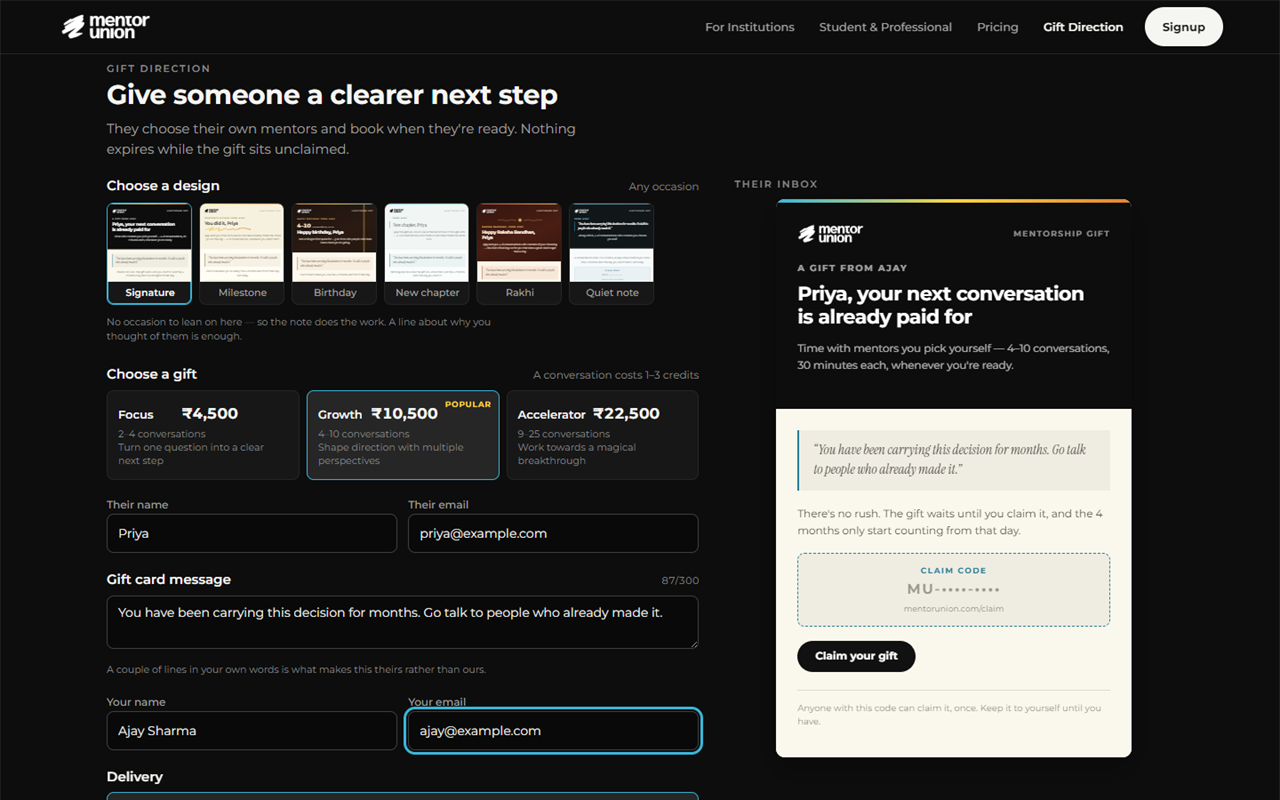
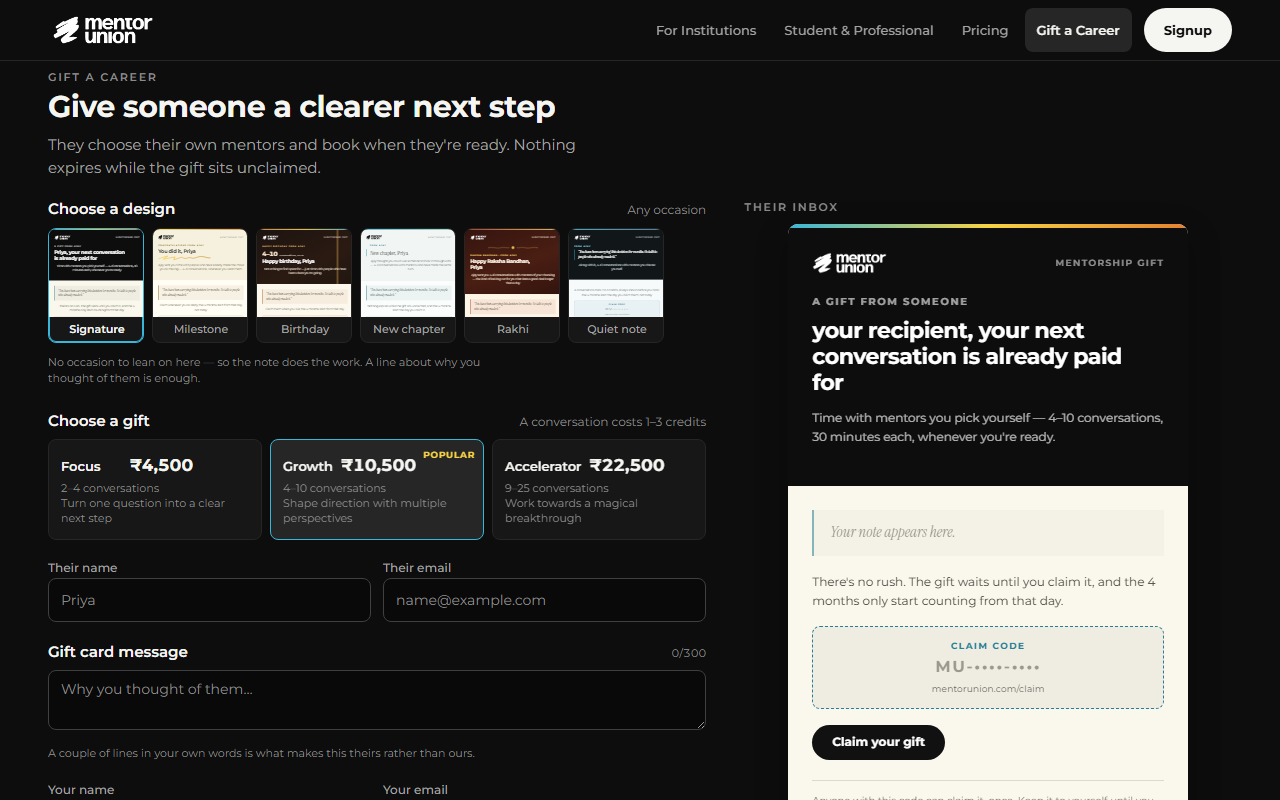
Rename Gift Direction to Gift a Career and stand in the landing page
The landing route now carries a single diagonal note pointing at the nav
CTA, so reviewers start the prototype where the work actually is. The
marketing hero, value cards and their styles are removed.

Also renames the vendored lockup to mentor-union-logo.png, which is what
it has always been — it was published under the black-bg-logo.png name.

diff --git a/prototypes/gift-mentorship/app.js b/prototypes/gift-mentorship/app.js
@@ -1,4 +1,4 @@
-/* Gift Direction — MentorUnion
+/* Gift a Career — MentorUnion
    Landing → one unified gifting page → guided design editor → provider
    checkout → confirmation, plus the recipient's Claim a Gift journey. There is
    no visible step tracker: the page hierarchy and a single continuation action
@@ -174,9 +174,13 @@
      slips before anything is looked up. */
   const CODE_ALPHABET = "23456789ABCDEFGHJKMNPQRSTVWXYZ";
 
+  /* One source for the CTA label, so the nav and the landing stand-in can never
+     drift apart — the stand-in tells people to click it by name. */
+  const GIFT_CTA = "Gift a Career";
+
   const ROUTES = ["", "gift", "personalise", "checkout", "gift/confirmed", "claim"];
   const ROUTE_TITLES = {
-    "": "Gift Direction",
+    "": GIFT_CTA,
     "gift": "Create your gift",
     "personalise": "Personalise the design",
     "checkout": "Checkout",
@@ -188,7 +192,7 @@
      The supplied dark-variant board is used on light heroes, where its white
      ground is multiplied away. Which one is used follows the measured luminance
      of the hero, so a recoloured card never renders an illegible lockup. */
-  const LOGO_LIGHT = "assets/logos/black-bg-logo.png";
+  const LOGO_LIGHT = "assets/logos/mentor-union-logo.png";
   const LOGO_DARK = "assets/logos/white-bg-logo.png";
 
   const CLAIM_URL = "mentorunion.com/claim";
@@ -630,68 +634,17 @@
 
   /* ------------------------------------------------------------ landing -- */
 
+  /* The marketing site is out of scope. This route stands in for it so the nav has
+     somewhere to sit and the prototype has an obvious starting point. */
   function renderLanding() {
     return `
-      <div class="container container--wide">
-        <section class="landing-hero">
-          <div class="landing-hero__copy">
-            <p class="eyebrow">MENTORUNION</p>
-            <h1 class="display" tabindex="-1">Careers move faster with someone who's been there.</h1>
-            <p class="lead">Book 30-minute conversations with practitioners who have already made the
-              move you're making. Pick your own mentor, in your own time.</p>
-            <div class="landing-hero__actions">
-              <a class="button button--primary" href="#/" data-inert-nav>Find a mentor</a>
-              <a class="button button--secondary" href="#/" data-inert-nav>See pricing</a>
-            </div>
-            <div class="landing-stats">
-              <div><strong>30 min</strong><span>per conversation</span></div>
-              <div><strong>1–3 credits</strong><span>per conversation</span></div>
-              <div><strong>No subscription</strong><span>nothing auto-renews</span></div>
-            </div>
-          </div>
-          <div class="hero-art" aria-hidden="true">
-            <svg viewBox="0 0 400 320" preserveAspectRatio="xMidYMid slice" role="presentation">
-              <rect x="40" y="214" width="96" height="12" rx="6" fill="#262626"/>
-              <rect x="152" y="166" width="96" height="12" rx="6" fill="#404040"/>
-              <rect x="264" y="112" width="96" height="12" rx="6" fill="#525252"/>
-              <path d="M60 200 C 130 190, 150 150, 210 146 C 270 142, 290 106, 348 98"
-                    fill="none" stroke="url(#gd-grad)" stroke-width="3" stroke-linecap="round" opacity="0.9"/>
-              <circle cx="348" cy="98" r="7" fill="#F5F5F2"/>
-              <defs>
-                <linearGradient id="gd-grad" x1="0" y1="0" x2="1" y2="0">
-                  <stop offset="0%" stop-color="#39B6D8"/><stop offset="50%" stop-color="#F7D344"/><stop offset="100%" stop-color="#E38330"/>
-                </linearGradient>
-              </defs>
-            </svg>
-          </div>
-        </section>
-
-        <section class="landing-section" aria-labelledby="how-title">
-          <div class="landing-section__head">
-            <p class="eyebrow">HOW IT WORKS</p>
-            <h2 class="heading-3" id="how-title">Three steps, no subscription</h2>
-          </div>
-          <div class="value-grid">
-            ${[
-              ["Choose a mentor", "Every mentor lists what a conversation costs before you book — between 1 and 3 credits."],
-              ["Book 30 minutes", "Pick a slot that works. One credit is 30 minutes of someone's full attention."],
-              ["Come back when you need to", "Credits sit in your balance. Nothing renews and nothing is charged again."]
-            ].map(([title, copy], i) => `
-              <article class="value-card">
-                <div class="value-card__icon" aria-hidden="true">
-                  <svg width="22" height="22" viewBox="0 0 24 24" fill="none" stroke="currentColor" stroke-width="1.6" stroke-linecap="round" stroke-linejoin="round">
-                    ${['<circle cx="12" cy="8" r="3.5"/><path d="M5 20a7 7 0 0 1 14 0"/>',
-                       '<circle cx="12" cy="12" r="8.5"/><path d="M12 7v5l3 2"/>',
-                       '<path d="M4 6h16v12H4z"/><path d="M4 10h16"/><path d="M9 15h6"/>'][i]}
-                  </svg>
-                </div>
-                <h3 class="heading-5">${e(title)}</h3>
-                <p>${e(copy)}</p>
-              </article>`).join("")}
-          </div>
-        </section>
-
-      </div>`;
+      <section class="stand-in">
+        <h1 class="stand-in__note" tabindex="-1">
+          <span>Consider this as a Landing page,</span>
+          <span>the core prototype starts as you</span>
+          <span>click <em>“${e(GIFT_CTA)}”</em></span>
+        </h1>
+      </section>`;
   }
 
   /* ======================================================================
@@ -746,7 +699,7 @@
     return `
       <div class="container container--wide">
         <header class="config-head">
-          <p class="eyebrow">GIFT DIRECTION</p>
+          <p class="eyebrow">GIFT A CAREER</p>
           <h1 class="heading-1" tabindex="-1">Give someone a clearer next step</h1>
           <p class="lead">They choose their own mentors and book when they're ready. Nothing expires
             while the gift sits unclaimed.</p>
@@ -1670,7 +1623,7 @@
   function render() {
     const route = currentRoute();
     app.innerHTML = (RENDERERS[route] || renderLanding)();
-    document.title = `${ROUTE_TITLES[route] || "Gift Direction"} · MentorUnion`;
+    document.title = `${ROUTE_TITLES[route] || "Gift a Career"} · MentorUnion`;
     markPreviewInert();
     fitPrintPreview();
 

diff --git a/prototypes/gift-mentorship/styles.css b/prototypes/gift-mentorship/styles.css
@@ -1,4 +1,4 @@
-/* Gift Direction — MentorUnion
+/* Gift a Career — MentorUnion
    Tokens, roles and geometry follow shared/design/website-design-schema.md v2.0.2.
 
    Density note: this build runs a deliberately compact application scale. The
@@ -249,7 +249,7 @@ h1[tabindex="-1"]:focus, h2[tabindex="-1"]:focus { outline: none; }
   gap: var(--mu-space-1);
 }
 
-/* Gift Direction sits immediately after Pricing and reads as an ordinary
+/* Gift a Career sits immediately after Pricing and reads as an ordinary
    navigation item — it is a destination, not the page's conversion action. */
 .nav-link {
   display: inline-flex;
@@ -439,50 +439,37 @@ h1[tabindex="-1"]:focus, h2[tabindex="-1"]:focus { outline: none; }
 }
 @keyframes spin { to { transform: rotate(360deg); } }
 
-/* ------------------------------------------------------------ landing -- */
+/* ------------------------------------------------- landing stand-in -- */
 
-.landing-hero {
-  padding-block: clamp(2.5rem, 6vw, var(--mu-space-11));
+/* The marketing site is out of scope, so this route carries a single diagonal
+   note instead. Sized off the viewport so it fills the space the real page
+   would have, and clipped horizontally because rotation widens its footprint. */
+.stand-in {
+  min-height: clamp(20rem, calc(100vh - 16rem), 40rem);
   display: grid;
-  grid-template-columns: minmax(0, 1.05fr) minmax(0, 0.95fr);
-  align-items: center;
-  gap: clamp(2rem, 5vw, var(--mu-space-10));
-}
-.landing-hero__copy { max-width: 33rem; }
-.landing-hero .lead { margin-block-start: var(--mu-space-4); font-size: 1rem; }
-.landing-hero__actions { margin-block-start: var(--mu-space-6); display: flex; flex-wrap: wrap; gap: var(--mu-space-3); }
-.landing-hero__actions .button { min-height: 3rem; padding-inline: var(--mu-space-6); }
-
-.landing-stats {
-  margin-block-start: var(--mu-space-7);
-  padding-block-start: var(--mu-space-5);
-  border-block-start: 1px solid var(--mu-color-border-subtle);
-  display: flex;
-  flex-wrap: wrap;
-  gap: var(--mu-space-7);
-}
-.landing-stats div strong { display: block; color: var(--mu-color-text-strong); font-size: 1.125rem; font-weight: 700; }
-.landing-stats div span { color: var(--mu-color-text-subtle); font-size: 0.75rem; }
-
-.hero-art {
-  position: relative;
-  aspect-ratio: 5 / 4;
-  border-radius: var(--mu-radius-card);
-  background: linear-gradient(160deg, var(--mu-ref-neutral-900), var(--mu-color-canvas-deep));
-  border: 1px solid var(--mu-color-border-subtle);
+  place-items: center;
   overflow: hidden;
+  padding-inline: var(--mu-space-5);
 }
-.hero-art svg { position: absolute; inset: 0; width: 100%; height: 100%; }
 
-.landing-section { padding-block: clamp(2.5rem, 6vw, var(--mu-space-10)); border-block-start: 1px solid var(--mu-color-border-subtle); }
-.landing-section__head { max-width: 44rem; }
-.landing-section__head .lead { margin-block-start: var(--mu-space-3); }
+.stand-in__note {
+  margin: 0;
+  display: grid;
+  gap: 0.15em;
+  color: var(--mu-color-text-muted);
+  font-size: clamp(1.05rem, 3.6vw, 2.25rem);
+  font-weight: 600;
+  line-height: 1.25;
+  text-align: center;
+  text-wrap: balance;
+  transform: rotate(-13deg);
+}
 
-.value-grid { margin-block-start: var(--mu-space-6); display: grid; grid-template-columns: repeat(3, minmax(0, 1fr)); gap: var(--mu-space-4); }
-.value-card { padding: var(--mu-space-5); border: 1px solid var(--mu-color-border-subtle); border-radius: var(--mu-radius-card); background: var(--mu-color-surface); }
-.value-card__icon { color: var(--mu-color-accent-cyan); }
-.value-card h3 { margin-block: var(--mu-space-3) var(--mu-space-2); }
-.value-card p { color: var(--mu-color-text-muted); font-size: 0.8125rem; line-height: 1.5; }
+.stand-in__note em {
+  color: var(--mu-color-text-strong);
+  font-style: normal;
+  font-weight: 700;
+}
 
 
 /* ============================================================== */
@@ -1846,12 +1833,6 @@ h1[tabindex="-1"]:focus, h2[tabindex="-1"]:focus { outline: none; }
   .email-card { max-width: 25rem; }
 }
 
-@media (max-width: 60rem) {
-  .landing-hero { grid-template-columns: minmax(0, 1fr); }
-  .hero-art { order: -1; aspect-ratio: 16 / 9; }
-  .value-grid { grid-template-columns: minmax(0, 1fr); }
-}
-
 @media (max-width: 52rem) {
   .field-row { grid-template-columns: minmax(0, 1fr); gap: var(--mu-space-3); }
   .size-row { grid-template-columns: minmax(0, 1fr); }
@@ -1859,7 +1840,6 @@ h1[tabindex="-1"]:focus, h2[tabindex="-1"]:focus { outline: none; }
   .schedule-reveal { max-width: none; }
   .outcome__actions { flex-direction: column; }
   .outcome__actions .button { width: 100%; }
-  .landing-stats { gap: var(--mu-space-5); }
   .claim-code-card__actions .button { width: 100%; }
   .control--colour { grid-template-columns: minmax(0, 1fr) auto; }
 }
@@ -1869,7 +1849,6 @@ h1[tabindex="-1"]:focus, h2[tabindex="-1"]:focus { outline: none; }
      a native date picker, so they stack instead of compressing. */
   .schedule-row { grid-template-columns: minmax(0, 1fr); max-width: none; }
   .email-hero, .email-body { padding-inline: var(--mu-space-4); }
-  .landing-stats { flex-direction: column; gap: var(--mu-space-3); }
   .editor-tabs { grid-template-columns: repeat(2, minmax(0, 1fr)); }
   .preset-row { grid-template-columns: repeat(2, minmax(0, 1fr)); }
   .tpl-grid { grid-template-columns: minmax(0, 1fr); }

diff --git a/prototypes/gift-mentorship/index.html b/prototypes/gift-mentorship/index.html
@@ -5,8 +5,8 @@
   <meta name="viewport" content="width=device-width, initial-scale=1, viewport-fit=cover">
   <meta name="color-scheme" content="dark">
   <meta name="robots" content="noindex, nofollow">
-  <meta name="description" content="Gift Direction — give someone time with mentors who have already made the move they are making. Choose a gift, personalise it, and schedule when it arrives.">
-  <title>Gift Direction · MentorUnion</title>
+  <meta name="description" content="Gift a Career — give someone time with mentors who have already made the move they are making. Choose a gift, personalise it, and schedule when it arrives.">
+  <title>Gift a Career · MentorUnion</title>
   <link rel="preconnect" href="https://fonts.googleapis.com">
   <link rel="preconnect" href="https://fonts.gstatic.com" crossorigin>
   <link href="https://fonts.googleapis.com/css2?family=Montserrat:wght@400;500;600;700;800&amp;display=swap" rel="stylesheet">
@@ -22,7 +22,7 @@
          before app.js runs, and stays shut if it never does. -->
     <div class="nav-inner" data-menu="closed">
       <a class="brand" href="#/" aria-label="MentorUnion home">
-        <img src="assets/logos/black-bg-logo.png"
+        <img src="assets/logos/mentor-union-logo.png"
              width="376" height="111" alt="">
       </a>
 
@@ -35,7 +35,7 @@
         <a class="nav-link" href="#/" data-nav="institutions" data-inert-nav>For Institutions</a>
         <a class="nav-link" href="#/" data-nav="individuals" data-inert-nav>Student &amp; Professional</a>
         <a class="nav-link" href="#/" data-nav="pricing" data-inert-nav>Pricing</a>
-        <a class="nav-link" href="#/gift" data-nav="gift">Gift Direction</a>
+        <a class="nav-link" href="#/gift" data-nav="gift">Gift a Career</a>
         <a class="nav-cta" href="#/" data-nav="signup" data-inert-nav>Signup</a>
       </nav>
     </div>
